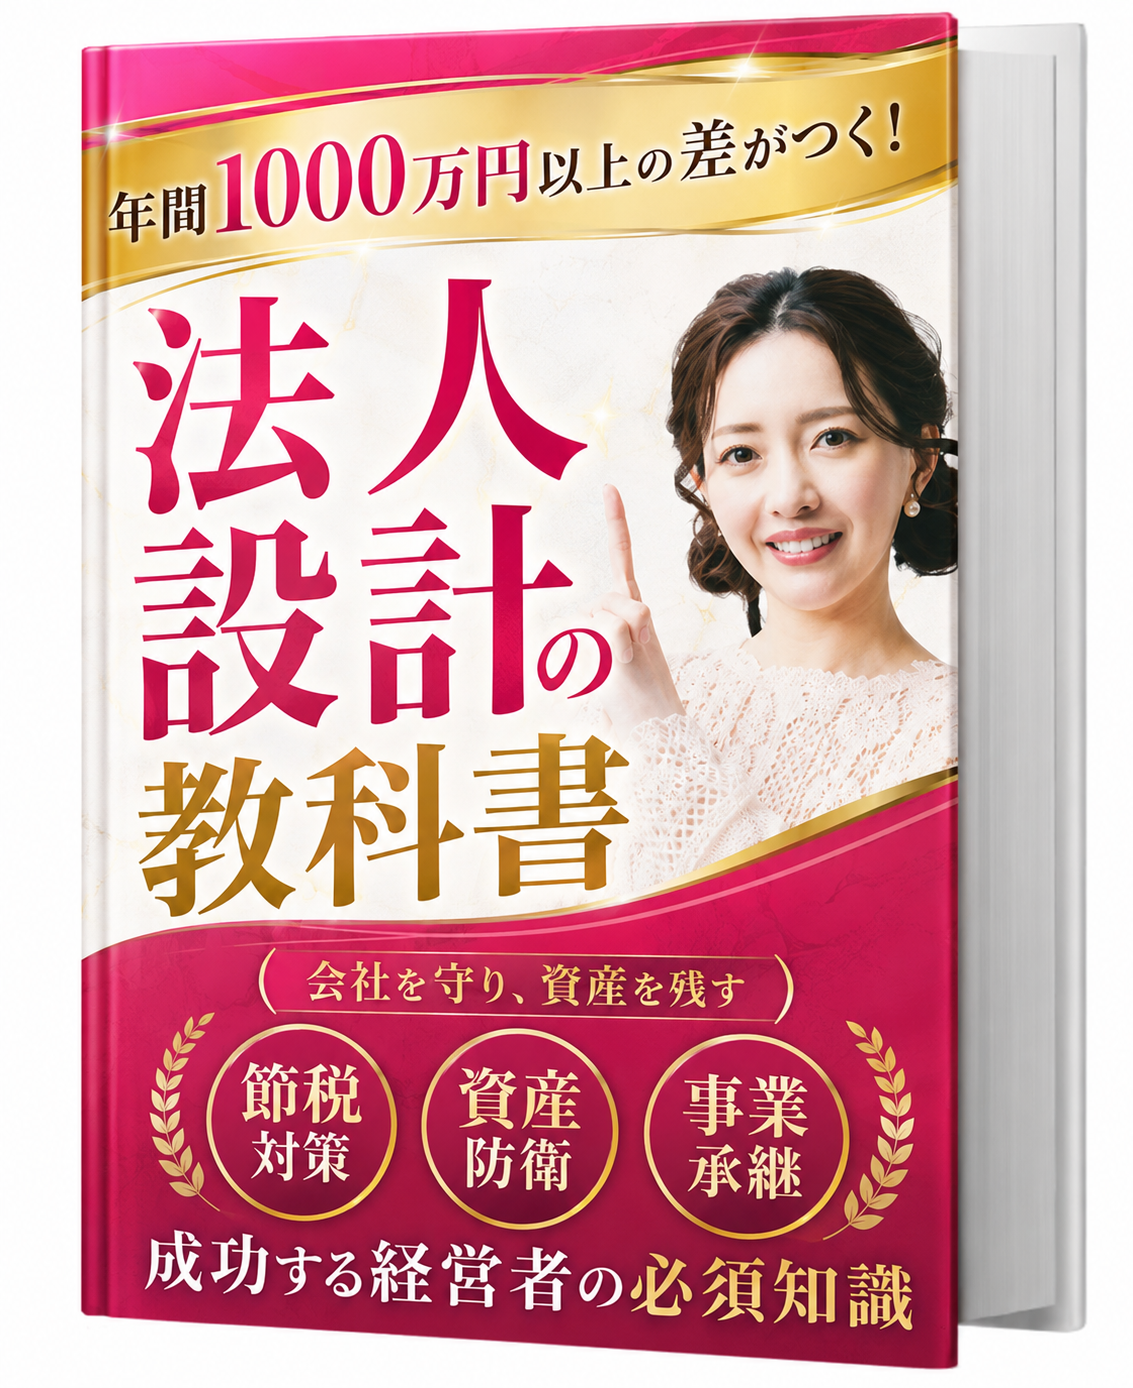
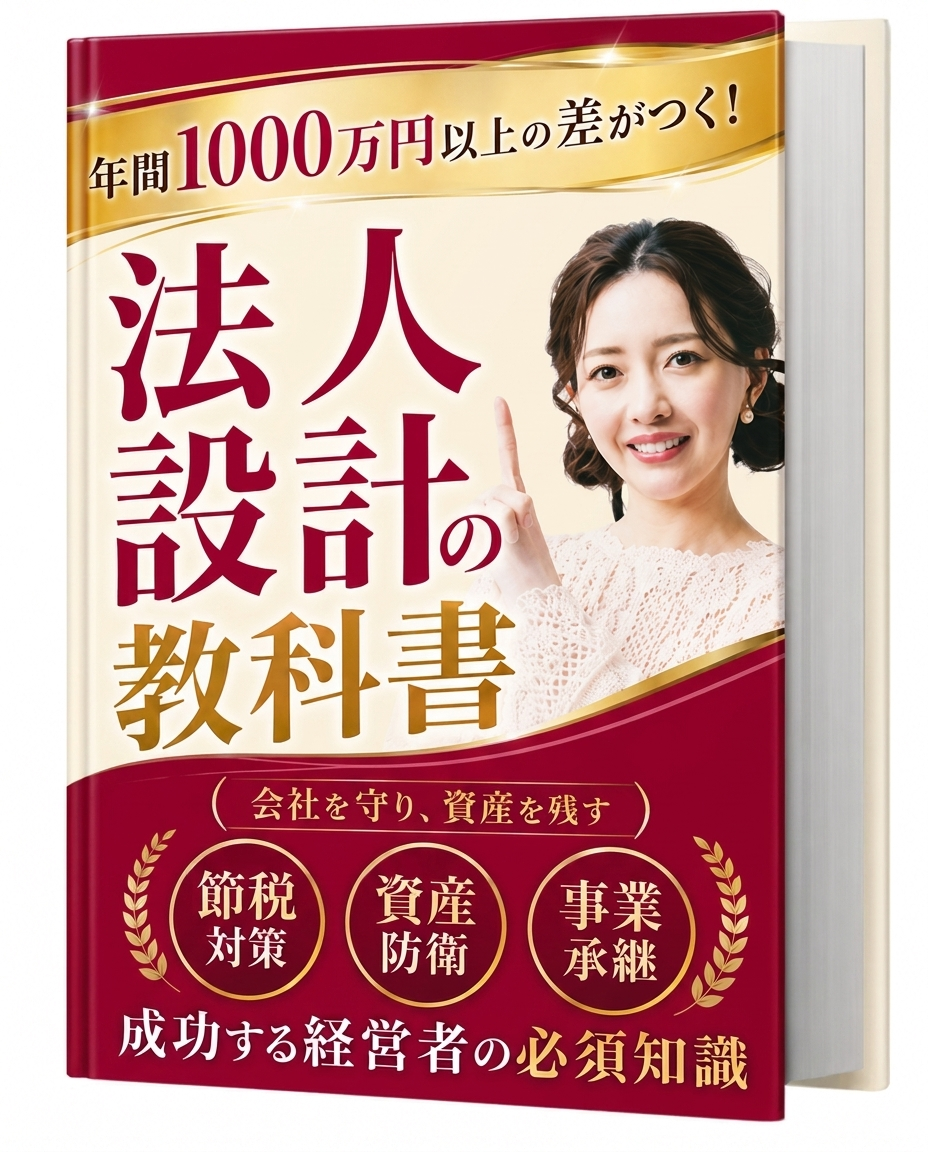
全体の色味をFV基準（深紅#C00030×クリーム#FCF5EE）に統一: 解決提示/こんな未来/監修帯/監修リボン/実績上帯をPIL色変換、10大特典カバー+30大特典ヘッダーをAI色変換

diff --git a/index.html b/index.html
@@ -864,24 +864,24 @@ footer .f-copy{margin-top:14px;font-size:12px;opacity:.95;}
 
   <!-- ============ 2. 特典セクション ============ -->
   <section class="tokuten">
-    <img class="tokuten-head-img" src="images/tokuten-head.png?v=2" alt="勉強会 豪華参加特典｜女性起業家の資産形成完全ロードマップ 勉強会専用LINEにご登録の方全員に 最大30大特典プレゼント 登録してすぐに10大特典GET" width="1586" height="992">
+    <img class="tokuten-head-img" src="images/tokuten-head.png?v=3" alt="勉強会 豪華参加特典｜女性起業家の資産形成完全ロードマップ 勉強会専用LINEにご登録の方全員に 最大30大特典プレゼント 登録してすぐに10大特典GET" width="1586" height="992">
 
     <div class="bk-grid">
       <div class="bk-row">
-        <div class="bk-item"><img class="mk-img" src="images/line-tokuten-01.png?v=1" alt="一生お金に困らない！年商1億を資産10億へ変える7ステップ" loading="lazy"></div>
-        <div class="bk-item"><img class="mk-img" src="images/line-tokuten-02.png?v=1" alt="今日からできる！ビジネスの利益を資産に変える3つの方法" loading="lazy"></div>
-        <div class="bk-item"><img class="mk-img" src="images/line-tokuten-03.png?v=1" alt="知らないと大損！女性起業家のための最強節税術TOP10" loading="lazy"></div>
+        <div class="bk-item"><img class="mk-img" src="images/line-tokuten-01.png?v=2" alt="一生お金に困らない！年商1億を資産10億へ変える7ステップ" loading="lazy"></div>
+        <div class="bk-item"><img class="mk-img" src="images/line-tokuten-02.png?v=2" alt="今日からできる！ビジネスの利益を資産に変える3つの方法" loading="lazy"></div>
+        <div class="bk-item"><img class="mk-img" src="images/line-tokuten-03.png?v=2" alt="知らないと大損！女性起業家のための最強節税術TOP10" loading="lazy"></div>
       </div>
       <div class="bk-row">
-        <div class="bk-item"><img class="mk-img" src="images/line-tokuten-04.png?v=1" alt="年間1000万円以上の差がつく！法人設計の教科書" loading="lazy"></div>
-        <div class="bk-item"><img class="mk-img" src="images/line-tokuten-05.png?v=1" alt="お金が残る会社になる！法人活用5ステップ" loading="lazy"></div>
-        <div class="bk-item"><img class="mk-img" src="images/line-tokuten-06.png?v=1" alt="知らないと損！資産管理会社設立完全マニュアル" loading="lazy"></div>
+        <div class="bk-item"><img class="mk-img" src="images/line-tokuten-04.png?v=2" alt="年間1000万円以上の差がつく！法人設計の教科書" loading="lazy"></div>
+        <div class="bk-item"><img class="mk-img" src="images/line-tokuten-05.png?v=2" alt="お金が残る会社になる！法人活用5ステップ" loading="lazy"></div>
+        <div class="bk-item"><img class="mk-img" src="images/line-tokuten-06.png?v=2" alt="知らないと損！資産管理会社設立完全マニュアル" loading="lazy"></div>
       </div>
       <div class="bk-row">
-        <div class="bk-item"><img class="mk-img" src="images/line-tokuten-07.png?v=1" alt="資産家だけが知っているお金が増える会社設計の秘密" loading="lazy"></div>
-        <div class="bk-item"><img class="mk-img" src="images/line-tokuten-08.png?v=1" alt="利益が出てもお金が残らない本当の理由" loading="lazy"></div>
-        <div class="bk-item"><img class="mk-img" src="images/line-tokuten-09.png?v=1" alt="年商3000万円を超えたら最初にやるべきお金の守り方" loading="lazy"></div>
-        <div class="bk-item"><img class="mk-img" src="images/line-tokuten-10.png?v=1" alt="5年後に後悔しない！女性経営者の資産形成ロードマップ" loading="lazy"></div>
+        <div class="bk-item"><img class="mk-img" src="images/line-tokuten-07.png?v=2" alt="資産家だけが知っているお金が増える会社設計の秘密" loading="lazy"></div>
+        <div class="bk-item"><img class="mk-img" src="images/line-tokuten-08.png?v=2" alt="利益が出てもお金が残らない本当の理由" loading="lazy"></div>
+        <div class="bk-item"><img class="mk-img" src="images/line-tokuten-09.png?v=2" alt="年商3000万円を超えたら最初にやるべきお金の守り方" loading="lazy"></div>
+        <div class="bk-item"><img class="mk-img" src="images/line-tokuten-10.png?v=2" alt="5年後に後悔しない！女性経営者の資産形成ロードマップ" loading="lazy"></div>
       </div>
     </div>
 
@@ -923,7 +923,7 @@ footer .f-copy{margin-top:14px;font-size:12px;opacity:.95;}
 
   <!-- ============ 4. 解決提示 ============ -->
   <section class="kaiketsu">
-    <img class="kaiketsu-img" src="images/kaiketsu-all.png?v=1" alt="多くの女性起業家は、売上を上げることはできても、その利益を資産へ変える方法を知りません。ビジネスで生み出した利益を、不動産や資産へ変え、自分が働かなくてもお金が増えていく仕組みを作る方法を学べる無料講座です。年商1億を資産10億へ。女性起業家のための資産形成完全ロードマップ。完全無料・オンライン勉強会を開催中！" width="1054" height="1492">
+    <img class="kaiketsu-img" src="images/kaiketsu-all.png?v=2" alt="多くの女性起業家は、売上を上げることはできても、その利益を資産へ変える方法を知りません。ビジネスで生み出した利益を、不動産や資産へ変え、自分が働かなくてもお金が増えていく仕組みを作る方法を学べる無料講座です。年商1億を資産10億へ。女性起業家のための資産形成完全ロードマップ。完全無料・オンライン勉強会を開催中！" width="1054" height="1492">
     <div class="cta-wrap" style="padding-bottom:28px;">
       <a class="cta-link" href="https://line.me/R/ti/p/@623nffxx"><img class="cta-img" src="images/cta-btn-only.png?v=2" alt="資産形成ロードマップをプレゼント。今すぐ無料で受け取る" width="1846" height="577"></a>
     </div>
@@ -936,15 +936,15 @@ footer .f-copy{margin-top:14px;font-size:12px;opacity:.95;}
 
   <!-- ============ 6. こんな女性起業家にぴったり ============ -->
   <section class="fit">
-    <img class="fit-img" src="images/mirai.png?v=1" alt="こんな未来が手に入ります｜法人の利益を不動産や資産へと変えていける／資産管理会社を活用してお金が増え続ける「器」を持てる／年商1億を資産10億へ変える具体的なロードマップが手に入る／不動産投資の「何から始めるか」が明確になり迷わず動ける／信頼できる人から正しい順番で学べて遠回りせずに進める／お金の不安から解放され心に余白が生まれる／自分が働かなくてもお金が回り家族とゆっくり過ごせる／子どもに好きな習い事や経験をさせてあげられる／教育費を気にせず海外留学の夢も応援できる／働く場所に縛られず海外移住という選択肢も持てる／売上を追う日々から卒業し土日はゆったり過ごせる／売上を追い続ける経営者から資産が増え続ける経営者へと変われる">
+    <img class="fit-img" src="images/mirai.png?v=2" alt="こんな未来が手に入ります｜法人の利益を不動産や資産へと変えていける／資産管理会社を活用してお金が増え続ける「器」を持てる／年商1億を資産10億へ変える具体的なロードマップが手に入る／不動産投資の「何から始めるか」が明確になり迷わず動ける／信頼できる人から正しい順番で学べて遠回りせずに進める／お金の不安から解放され心に余白が生まれる／自分が働かなくてもお金が回り家族とゆっくり過ごせる／子どもに好きな習い事や経験をさせてあげられる／教育費を気にせず海外留学の夢も応援できる／働く場所に縛られず海外移住という選択肢も持てる／売上を追う日々から卒業し土日はゆったり過ごせる／売上を追い続ける経営者から資産が増え続ける経営者へと変われる">
   </section>
 
   <!-- ============ 7. 監修者セクション ============ -->
   <section class="kanshu">
-    <img class="profile-img" src="images/profile-head.png?v=1" alt="年商1億を資産10億へ。3児のママ経営者が実践する女性起業家の資産形成術。" width="1012" height="278">
-    <img class="profile-img" src="images/kanshu-band.png?v=2" alt="事業と資産形成の両立を実現した 女性起業家 松田リエ監修。年商10億・資産20億超、40室以上の不動産を保有し、M&Aも経験した3児のママ経営者が監修。事業の利益を不動産や資産へ変え、自分が働かなくてもお金が増えていく仕組みを構築。「どう資産を作るか」を、リアルな経験に基づいて体系化した資産形成の無料講座です。" width="1122" height="1402">
+    <img class="profile-img" src="images/profile-head.png?v=2" alt="年商1億を資産10億へ。3児のママ経営者が実践する女性起業家の資産形成術。" width="1012" height="278">
+    <img class="profile-img" src="images/kanshu-band.png?v=3" alt="事業と資産形成の両立を実現した 女性起業家 松田リエ監修。年商10億・資産20億超、40室以上の不動産を保有し、M&Aも経験した3児のママ経営者が監修。事業の利益を不動産や資産へ変え、自分が働かなくてもお金が増えていく仕組みを構築。「どう資産を作るか」を、リアルな経験に基づいて体系化した資産形成の無料講座です。" width="1122" height="1402">
     <img class="profile-img" src="images/rie-profile.png?v=4" alt="松田リエ Rie Matsuda。3児のママ経営者でありながら年商10億・資産20億超を実現／40室以上の不動産を保有し事業利益を資産へ変える仕組みを構築／M&Aも経験しお金を増やす経営を実践／累計受講生4,500名以上／YouTube登録者22万人・総フォロワー70万人超・テレビ出演16回以上／出版17冊・累計43万部突破" width="962" height="1725">
-    <img class="profile-img" src="images/jisseki.png?v=6" alt="実績画像・メディア掲載多数。テレビ出演写真／週刊女性・THE TIME,・美的.com・Yahoo!ニュース・小学館・女子SPA!・毎日新聞・朝日新聞・産経新聞・読売新聞・中日新聞・壮快ほか雑誌掲載多数。累計受講生4,500名以上／YouTube総登録者22万人以上／総フォロワー70万人突破／累計43万部突破／テレビ出演16回以上" width="724" height="1369">
+    <img class="profile-img" src="images/jisseki.png?v=7" alt="実績画像・メディア掲載多数。テレビ出演写真／週刊女性・THE TIME,・美的.com・Yahoo!ニュース・小学館・女子SPA!・毎日新聞・朝日新聞・産経新聞・読売新聞・中日新聞・壮快ほか雑誌掲載多数。累計受講生4,500名以上／YouTube総登録者22万人以上／総フォロワー70万人突破／累計43万部突破／テレビ出演16回以上" width="724" height="1369">
   </section>
 
   <!-- ============ 9-10. ビジョン〜ラスト（画像） ============ -->
